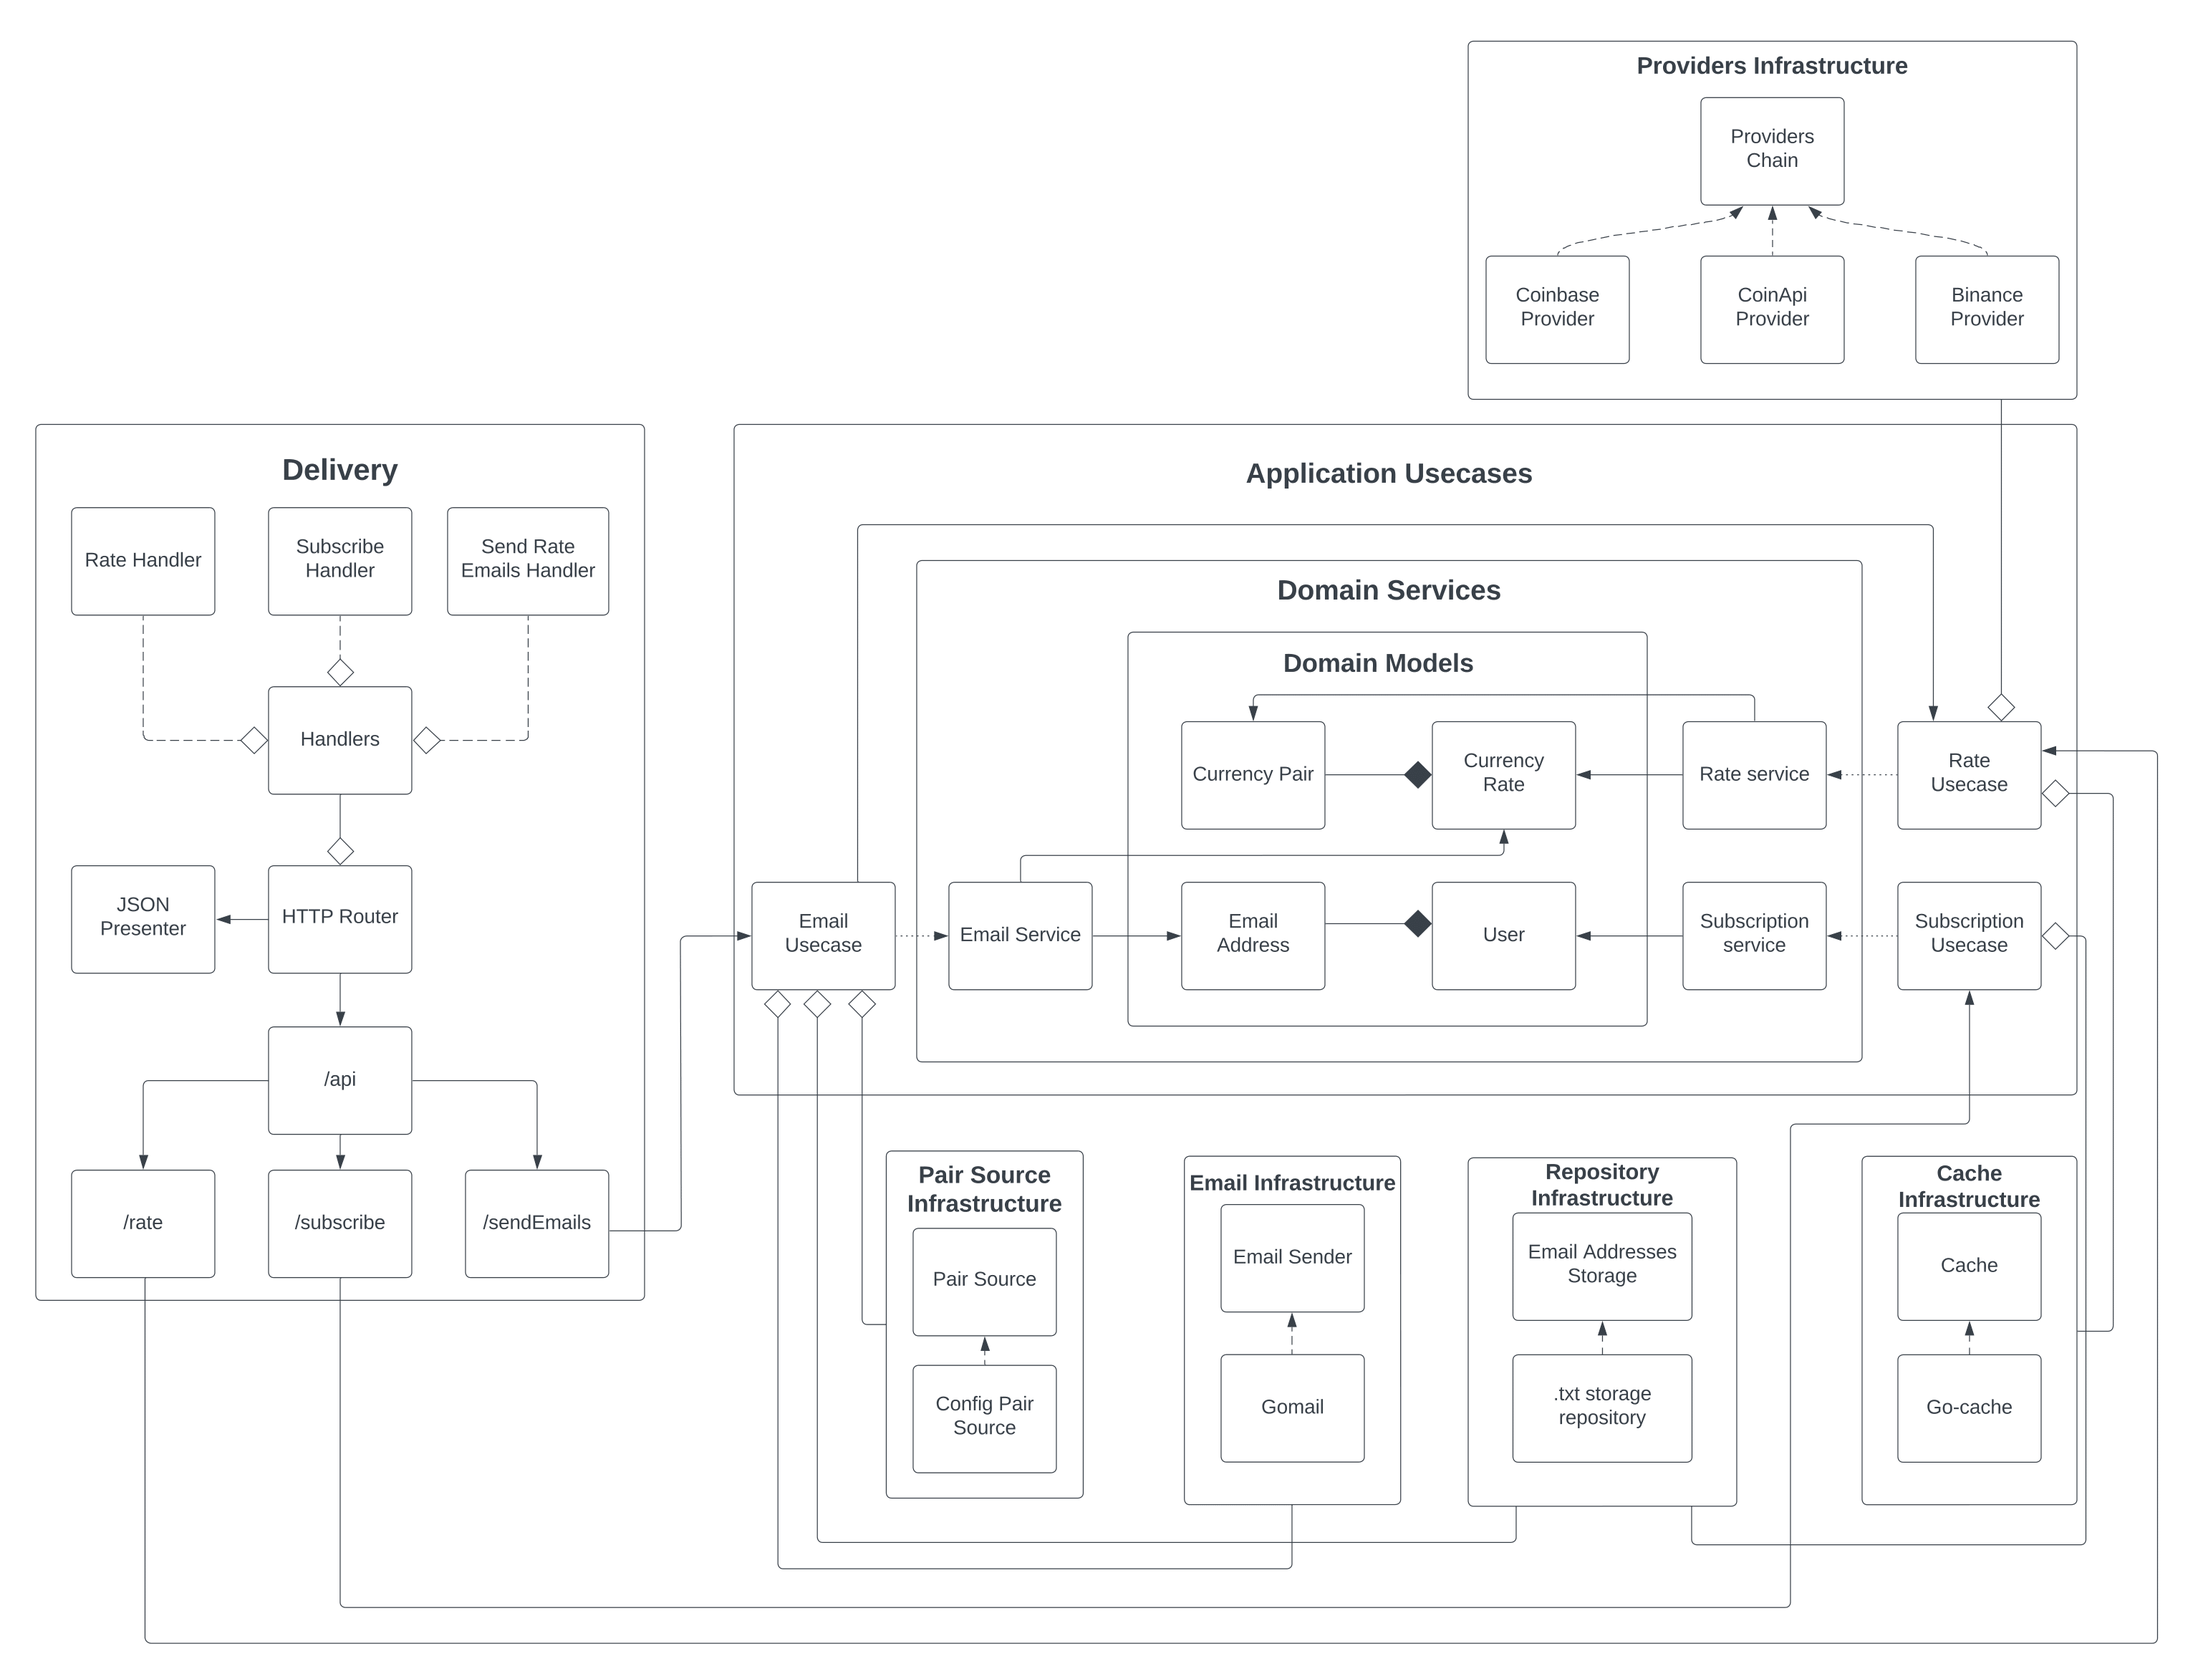
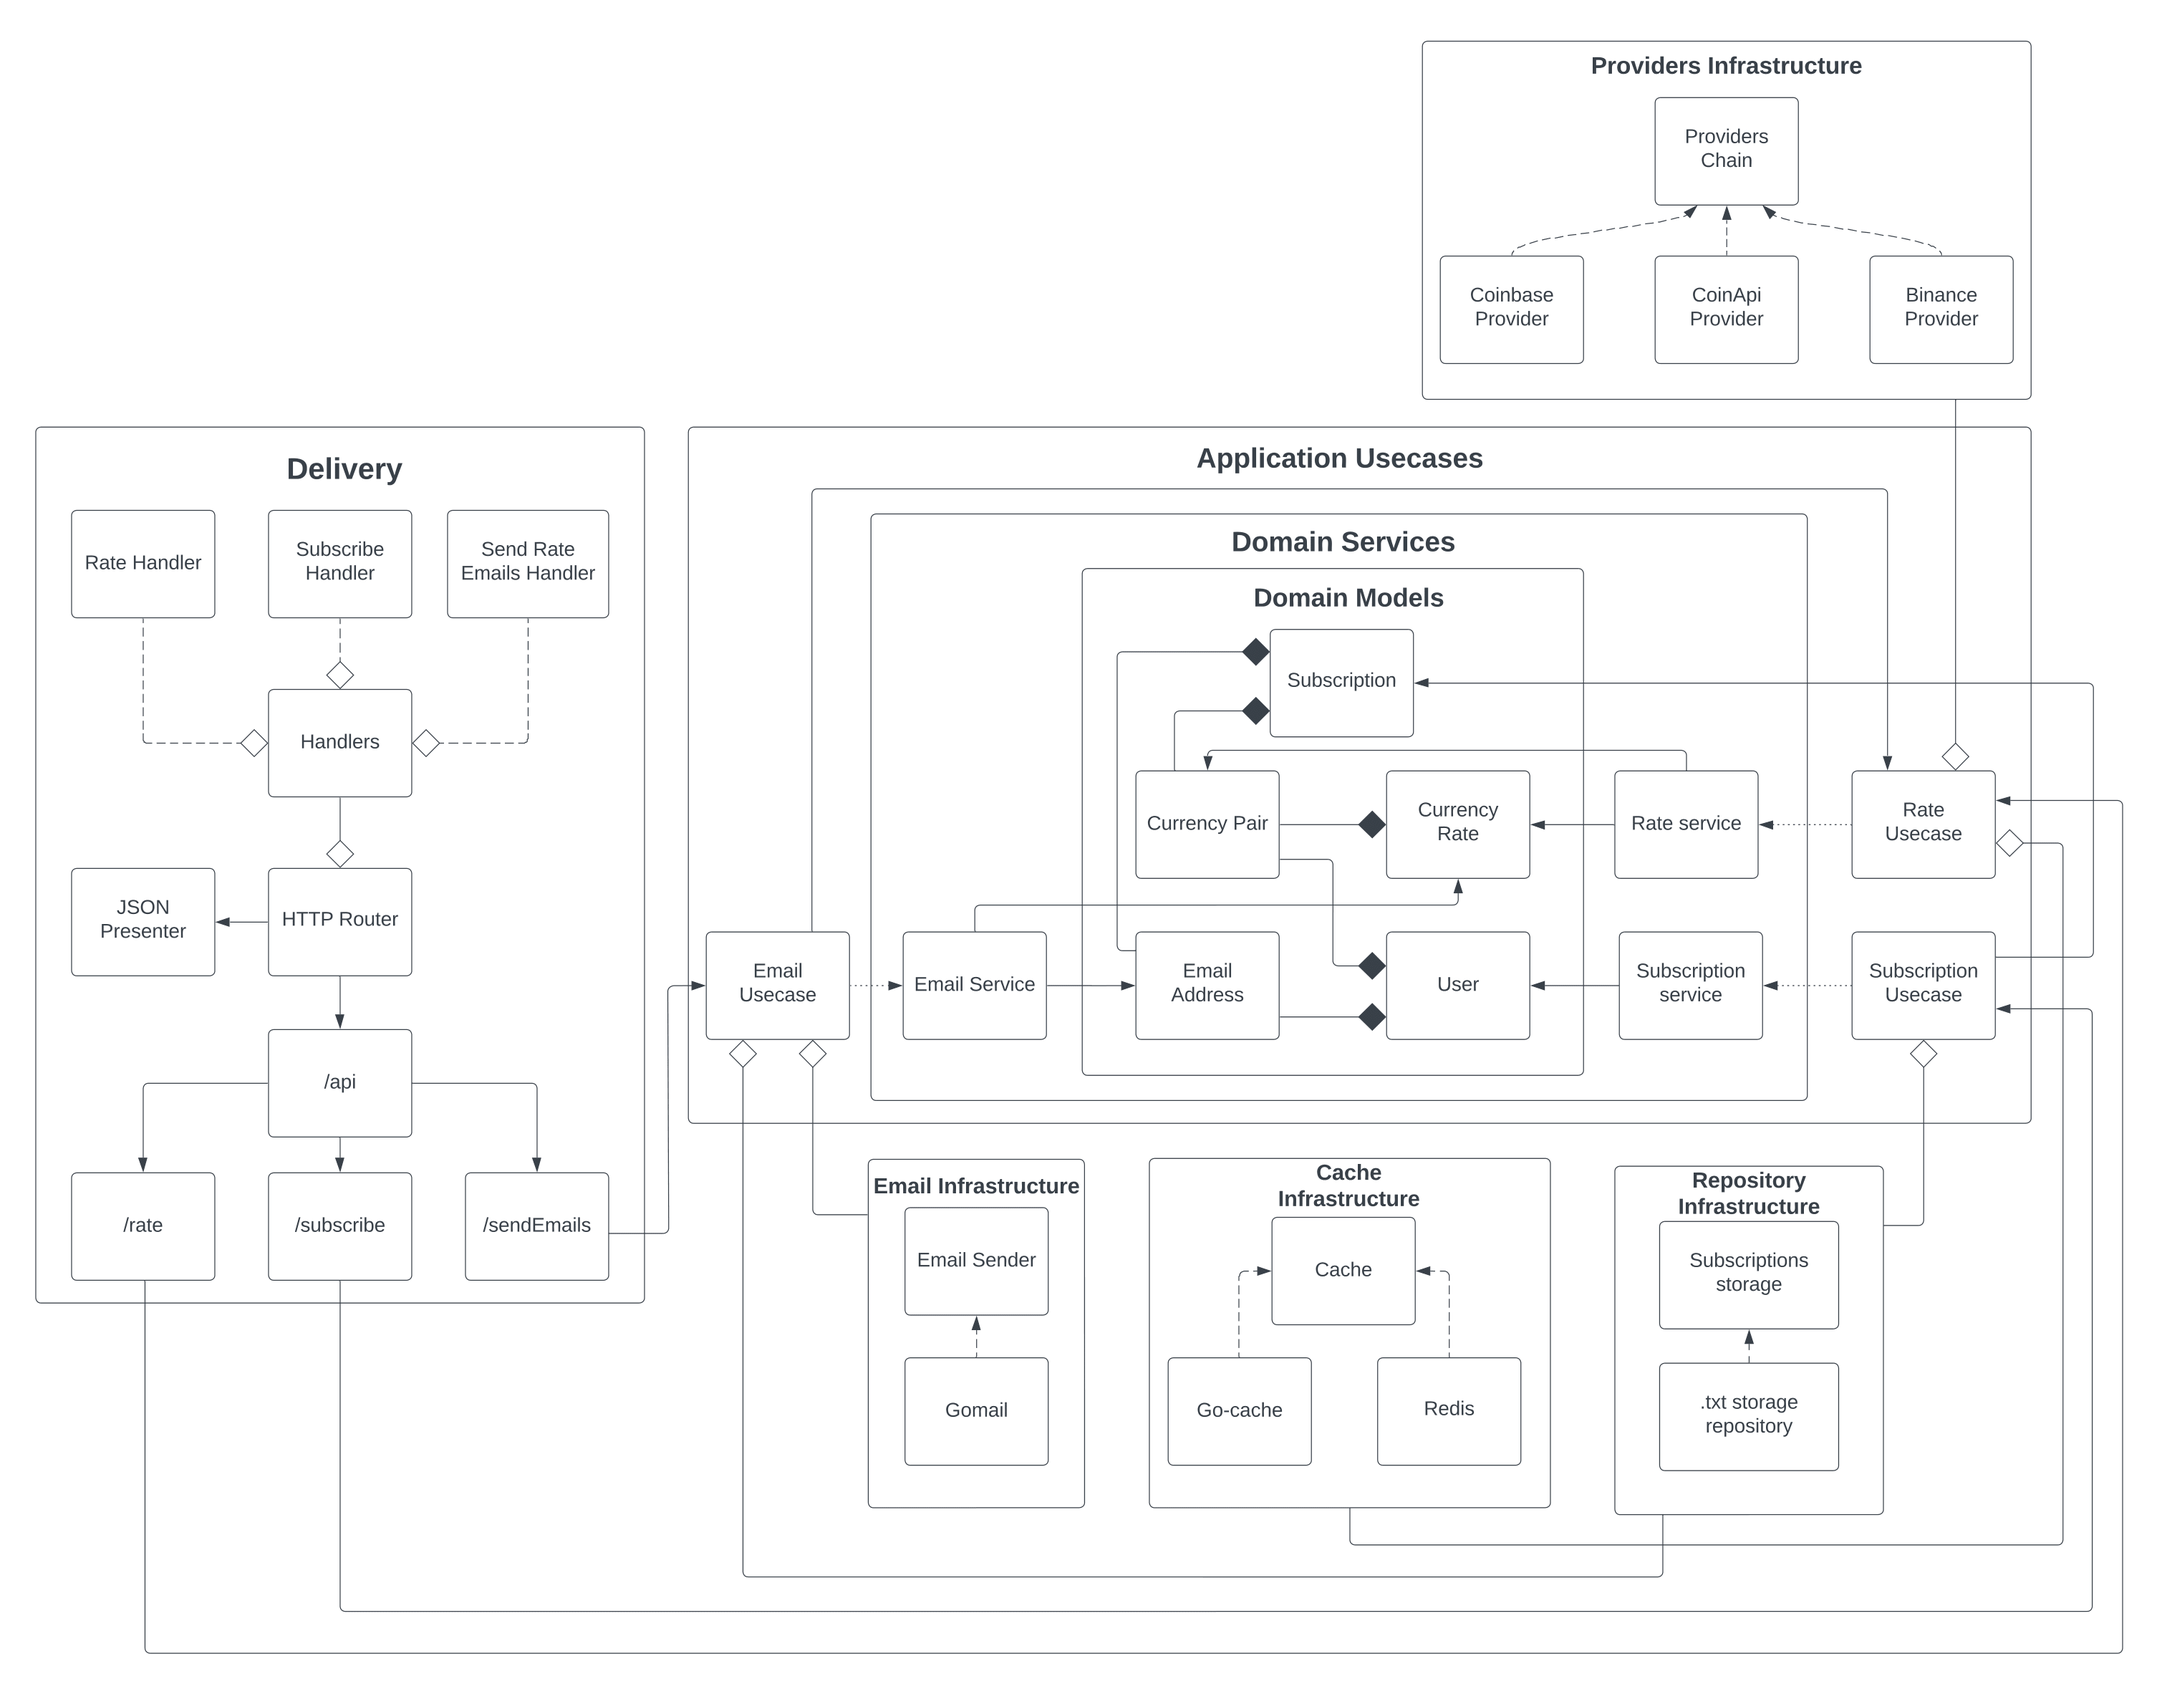
Refactored hardcoded separators, updated architecture diagram, fixed .gitignore

diff --git a/pkg/infrastructure/storage/subscription_repository/file_subscription_repository.go b/pkg/infrastructure/storage/subscription_repository/file_subscription_repository.go
@@ -86,17 +86,17 @@ func (r *SubscriptionFileRepository) GetAll() []models.Subscription {
 }
 
 func ComposeSubscription(line string) (models.Subscription, error) {
-	columnIndex := strings.Index(line, ":")
-	dashIndex := strings.Index(line, "-")
-	if columnIndex == -1 || dashIndex == -1 {
+	emailSepIndex := strings.Index(line, config.EmailAddressSeparator)
+	currencySepIndex := strings.Index(line, config.CurrencyPairSeparator)
+	if emailSepIndex == -1 || currencySepIndex == -1 {
 		emptyEmail := *models.NewEmailAddress("")
 		emptyPair := *models.NewCurrencyPair("", "")
 		emptySubscription := *models.NewSubscription(emptyEmail, emptyPair)
 		return emptySubscription, errors.ErrCouldNotMarshallSubscription
 	}
-	email := models.NewEmailAddress(line[:columnIndex])
-	base := line[columnIndex+1 : dashIndex]
-	quote := line[dashIndex+1:]
+	email := models.NewEmailAddress(line[:emailSepIndex])
+	base := line[emailSepIndex+1 : currencySepIndex]
+	quote := line[currencySepIndex+1:]
 	pair := models.NewCurrencyPair(base, quote)
 	return *models.NewSubscription(*email, *pair), nil
 }

diff --git a/config/config.go b/config/config.go
@@ -10,18 +10,20 @@ import (
 )
 
 var (
-	ServerUrl         string
-	CoinApiKey        string
-	GenesisProvider   string
-	EmailAddress      string
-	EmailPassword     string
-	StorageFile       string
-	LoggerFile        string
-	SMTPHost          string
-	SMTPPort          int
-	CacheHost         string
-	CacheDb           int
-	CacheDurationMins int
+	ServerUrl             string
+	CoinApiKey            string
+	GenesisProvider       string
+	EmailAddress          string
+	EmailPassword         string
+	StorageFile           string
+	LoggerFile            string
+	SMTPHost              string
+	SMTPPort              int
+	CacheHost             string
+	CacheDb               int
+	CacheDurationMins     int
+	CurrencyPairSeparator string
+	EmailAddressSeparator string
 )
 
 func init() {
@@ -69,4 +71,6 @@ func setupVariables() {
 	if err != nil {
 		log.Fatal(err)
 	}
+	CurrencyPairSeparator = "-"
+	EmailAddressSeparator = ":"
 }

diff --git a/pkg/infrastructure/email/email_sender.go b/pkg/infrastructure/email/email_sender.go
@@ -50,7 +50,8 @@ func composeBody(rates []models.CurrencyRate) string {
 	var body string
 	for _, rate := range rates {
 		pair := rate.GetCurrencyPair()
-		rateInfo := pair.GetBase() + "-" + pair.GetQuote() + " rate on " + rate.GetTimestamp().String() + " : " +
+		rateInfo := pair.GetBase() + config.CurrencyPairSeparator + pair.GetQuote() +
+			" rate on " + rate.GetTimestamp().String() + " : " +
 			strconv.FormatFloat(rate.GetPrice(), 'f', -1, 64)
 		body += rateInfo + "<br />"
 	}

diff --git a/pkg/application/subscription_ucase.go b/pkg/application/subscription_ucase.go
@@ -17,7 +17,7 @@ func (r *SubscriptionRepository) Subscribe(user models.User) error {
 	for _, pair := range user.SubscribedPairs {
 		subscription := models.NewSubscription(*user.GetEmailAddress(), pair)
 		if r.storage.IsSaved(*subscription) {
-			return errors.ErrAlreadySubscribed // TODO: add concrete pair
+			return errors.ErrAlreadySubscribed
 		} else {
 			if err := r.storage.AddSubscription(*subscription); err != nil {
 				return err

diff --git a/pkg/domain/models/subscription.go b/pkg/domain/models/subscription.go
@@ -1,5 +1,9 @@
 package models
 
+import (
+	"GenesisTask/config"
+)
+
 type Subscription struct {
 	EmailAddress
 	CurrencyPair
@@ -18,5 +22,6 @@ func (s *Subscription) GetCurrencyPair() *CurrencyPair {
 }
 
 func (s *Subscription) ToString() string {
-	return s.GetEmailAddress().ToString() + ":" + s.GetCurrencyPair().ToString()
+	return s.GetEmailAddress().ToString() + config.EmailAddressSeparator +
+		s.GetCurrencyPair().ToString()
 }

diff --git a/pkg/errors/errors.go b/pkg/errors/errors.go
@@ -6,5 +6,5 @@ var (
 	ErrNotPresentInCache            = errors.New("rate is not present in cache")
 	ErrIsNotFloat64                 = errors.New("can't convert to float64")
 	ErrAlreadySubscribed            = errors.New("email address is already subscribed")
-	ErrCouldNotMarshallSubscription = errors.New("unable to find column/dash separator")
+	ErrCouldNotMarshallSubscription = errors.New("unable to find separator")
 )

diff --git a/pkg/domain/models/currency_pair.go b/pkg/domain/models/currency_pair.go
@@ -1,5 +1,7 @@
 package models
 
+import "GenesisTask/config"
+
 type CurrencyPair struct {
 	base  string
 	quote string
@@ -18,5 +20,5 @@ func (p CurrencyPair) GetQuote() string {
 }
 
 func (p CurrencyPair) ToString() string {
-	return p.base + "-" + p.quote
+	return p.base + config.CurrencyPairSeparator + p.quote
 }

diff --git a/config/config_test.go b/config/config_test.go
@@ -20,4 +20,6 @@ func TestIsConfigPresent(t *testing.T) {
 	require.NotEmpty(t, CacheHost)
 	assert.NotEqual(t, CacheDb, 0)
 	assert.NotEqual(t, CacheDurationMins, 0)
+	require.NotEmpty(t, CurrencyPairSeparator)
+	require.NotEmpty(t, EmailAddressSeparator)
 }

diff --git a/README.md b/README.md
@@ -17,7 +17,7 @@ $ docker run -d -p 8080:8080 genapp
 ```
 
 # Project architecture:
-![http://url/to/img.png](https://github.com/GenesisEducationKyiv/hw1-se-school_2022-code-review-NikitaMasych/blob/main/docs/Architecture.png)
+![http://url/to/img.png](https://github.com/GenesisEducationKyiv/hw1-se-school_2022-code-review-NikitaMasych/blob/hw6/docs/Architecture.png)
 
 # Project structure
 ```
